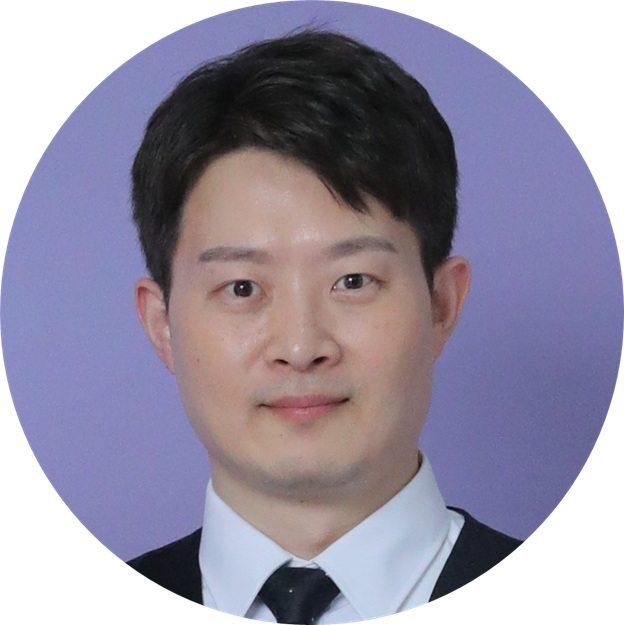
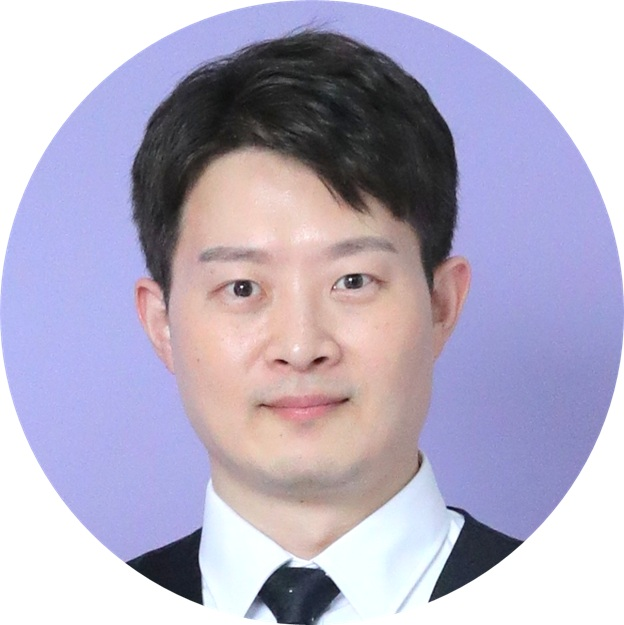
minor changes

diff --git a/_includes/sections/intro.html b/_includes/sections/intro.html
@@ -3,18 +3,17 @@
 		<img src="assets/profile_sj.jpg" width="150px" style="flex-shrink: 0; display: block; margin: 0 auto;">
 	</div>
 	<div style="text-align: center;">
-		<p style="margin-top:0.5em; margin-bottom:0.3em; color:rgb(0, 0, 0); font-weight:normal; font-size: 1.0em; font-family:Calibri; text-align: center;"><a href="https://sujinj.com/" style="text-decoration: none; color:rgb(70, 70, 70); font-family: Tahoma">
+		<p style="margin-top:0.5em; margin-bottom:0.3em; color:rgb(0, 0, 0); font-weight:bold; font-size: 1.0em; font-family:Calibri; text-align: center;"><a href="https://sujinj.com/" style="text-decoration: none; color:rgb(70, 70, 70); font-family: Tahoma">
 		<strong>Sujin Jang</strong></a>
 		</p>
-		<p style="margin-top:0.0em; margin-bottom:0.0em; color:rgb(0, 0, 0); font-size: 0.7em; font-family: Courier; font-weight:normal; text-align: center;">
+		<p style="margin-top:0.0em; margin-bottom:0.0em; color:rgb(0, 0, 0); font-size: 0.8em; font-family: Calibri; font-weight:bold; text-align: center;">
 			Associate Professor
 		</p>
-		<p style="margin-top:0.0em; margin-bottom:0.5em; color:rgb(0, 0, 0); font-size: 0.6em; font-weight:normal; font-family:Calibri; text-align: center;">
+		<p style="margin-top:0.0em; margin-bottom:0.5em; color:rgb(0, 0, 0); font-size: 0.7em; font-weight:normal; font-family:Calibri; text-align: center; line-height: 1.5;">
 			<a href="https://hpi-lab.org">Human-centered Physical Intelligence (HPI) Lab</a>,
 			<br>
 			<a href="http://aix.hanyang.ac.kr/">Department of Artificial Intelligence</a>,
 			<br>
-			<a href="http://computing.hanyang.ac.kr/">College of Computing</a>, 
 			<a href="https://www.hanyang.ac.kr/web/eng">Hanyang University ERICA</a>
 			<br>		
 		</p>

diff --git a/_includes/sections/service.html b/_includes/sections/service.html
@@ -17,7 +17,7 @@
 	<li span class="list" style="cursor: pointer; display: flex; align-items: center; gap: 0.1em; margin-left: 0.5em; margin-top: -1.0em;" onclick="toggleServiceMore()">
 		<span id="serviceToggle" style="font-size: 0.9em; font-weight: bold;">[+]</span> More
 	</li>
-	<ul span style="text-align:left; margin-top:-0.0em; margin-left:0.5em; padding:0.0em; font-weight:normal; font-family:Calibri; display: none; line-height:1.0em" id="serviceMoreContent">
+	<ul span style="text-align:left; margin-top:-0.5em; margin-left:0.5em; padding:0.0em; font-weight:normal; font-family:Calibri; display: none; line-height:1.0em" id="serviceMoreContent">
 		<li span class="list">[ISMAR] Reviewer, IEEE International Symposium on Mixed and Augmented Reality (2021)</li>
 		<li span class="list">[VR] Reviewer, IEEE Conference on Virtual Reality and 3D User Interfaces (2018,2019)</li>
 		<li span class="list">[3DUI] Reviewer, IEEESymposium on 3D User Interfaces (2016)</li>